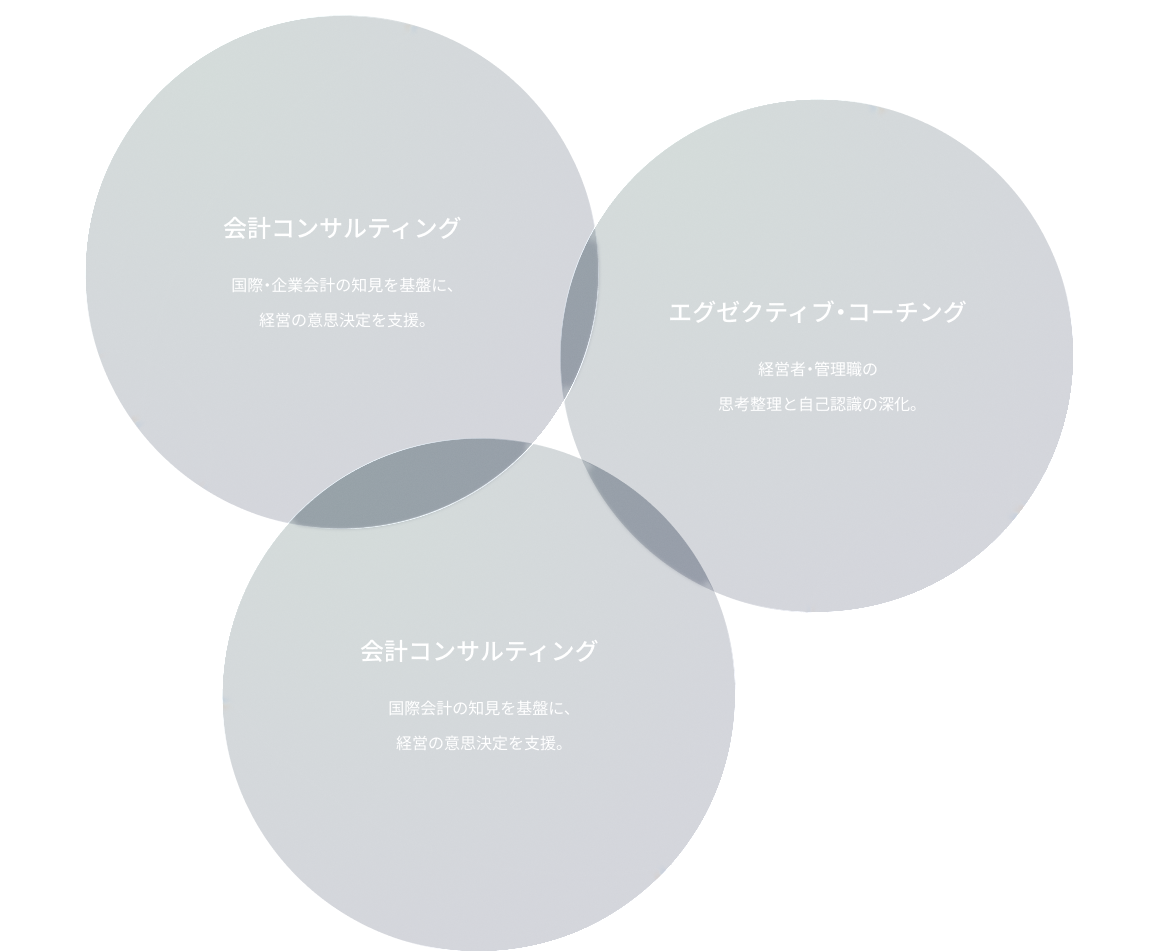
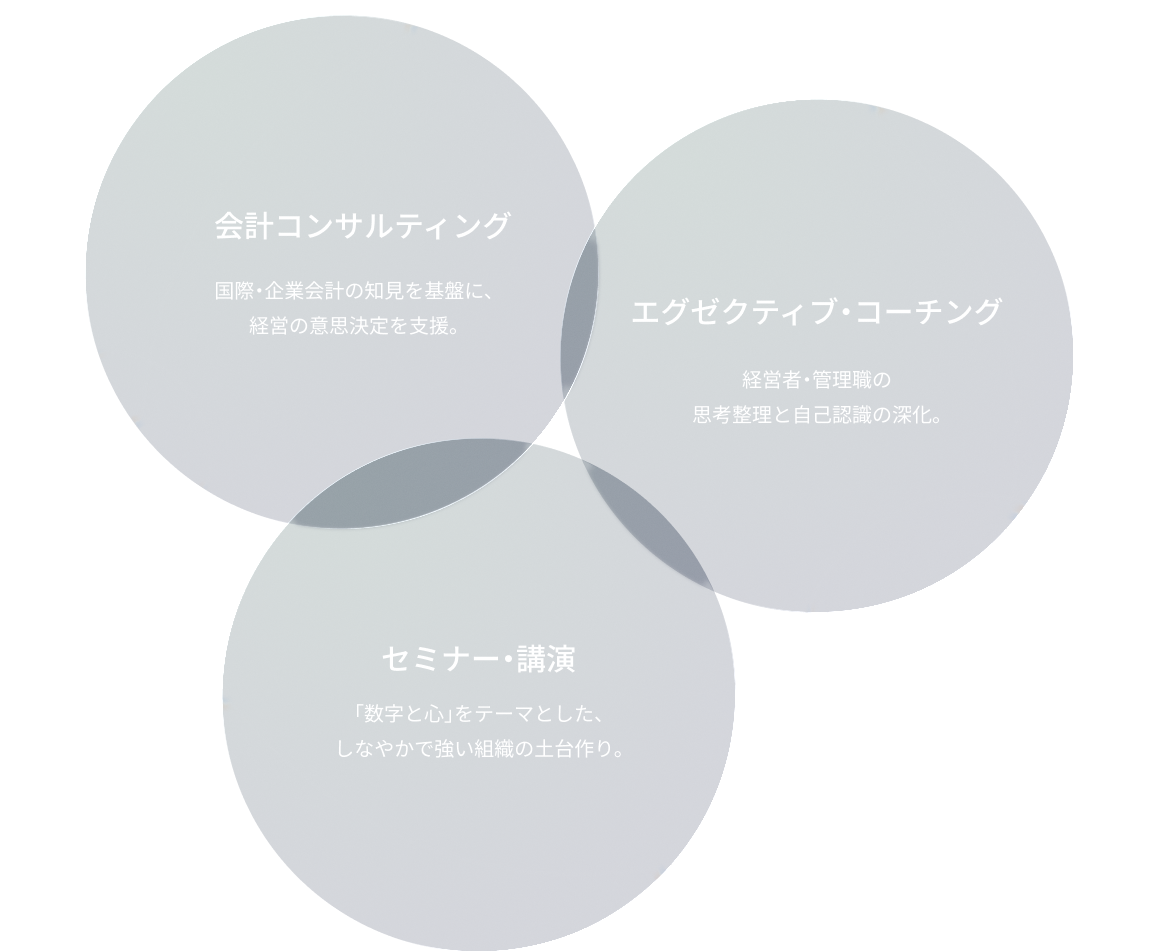
UI update

diff --git a/styles.css b/styles.css
@@ -18,6 +18,7 @@ html {
   --font-family: "Noto Serif JP", serif;
   -webkit-font-smoothing: antialiased;
   --secondary-font-family: "Philosopher", sans-serif;
+  --third-font-family: "Noto Sans JP", sans-serif;
   --hero-bg-color: linear-gradient(120.08deg, #033432 -7.87%, #172244 41.1%);
   --navy: #262f4c;
   --navy-mid: #2d3e6b;
@@ -64,7 +65,7 @@ html {
 }
 
 body {
-  font-family: var(--font-family);
+  font-family: var(--third-font-family);
   color: var(--text-color);
   background-color: #f8f8f8;
   overflow-x: hidden !important;
@@ -209,6 +210,7 @@ ul {
 }
 
 .hero-title {
+  font-family: var(--font-family);
   font-size: 50px;
   font-weight: 400;
   line-height: 80px;
@@ -533,6 +535,10 @@ ul {
   max-width: 1680px;
 }
 
+.message-title .highlight {
+  font-size: 48px;
+}
+
 .message-label {
   font-family: var(--secondary-font-family);
   font-size: 16px;
@@ -543,6 +549,7 @@ ul {
 }
 
 .message-title {
+  font-family: var(--font-family);
   font-size: 2.5rem;
   font-weight: 300;
   /* line-height: 1.4; */
@@ -552,7 +559,7 @@ ul {
 }
 
 .message-text {
-  font-family: var(--font-family);
+  font-family: var(--third-font-family);
   font-size: 1rem;
   color: var(--primary-color);
   margin-bottom: 25px;
@@ -799,6 +806,7 @@ ul {
 }
 
 .services-section .service-title {
+  font-family: var(--font-family);
   text-align: center;
 }
 
@@ -903,6 +911,7 @@ ul {
 }
 
 .organization-content-wrapper .organization-paragraph {
+  font-family: var(--font-family);
   font-weight: 400;
   font-size: 36px;
   line-height: 70px;
@@ -1606,7 +1615,6 @@ ul {
   font-size: 36px;
 }
 .services-info-description {
-  font-family: var(--font-family);
   font-weight: 400;
   font-size: 16px;
   line-height: 35px;
@@ -1652,13 +1660,12 @@ ul {
   font-size: 36px;
 }
 .services-description-section .s1-sec p {
-  font-family: var(--font-family);
   font-weight: 400;
   font-size: 16px;
   line-height: 35px;
 }
 .services-description-section .s2-sec img {
-  width: 100%;
+  width: 80%;
 }
 .horizontal-line-with-circle {
   width: 100%;
@@ -1721,9 +1728,10 @@ ul {
 
 /* Body */
 .custom-table tbody td {
-  padding: 16px;
+  font-family: var(--third-font-family);
+  padding: 30px 16px;
   vertical-align: top;
-  line-height: 1.6;
+  line-height: 2.0;
   border-right: 1px solid #fff;
 }
 
@@ -1785,7 +1793,6 @@ ul {
   width: 100%;
 }
 .seminar-container p {
-  font-family: var(--font-family);
   font-weight: 400;
   font-size: 16px;
   line-height: 35px;
@@ -1804,7 +1811,6 @@ ul {
   text-align: center;
 }
 .subject-description {
-  font-family: var(--font-family);
   font-weight: 400;
   font-size: 16px;
   line-height: 35px;
@@ -1822,7 +1828,6 @@ ul {
   padding-inline: 20px;
 }
 .participating-section {
-  font-family: var(--font-family);
   font-weight: 400;
   font-size: 16px;
   line-height: 35px;
@@ -1918,6 +1923,7 @@ ul {
 
 /* Table */
 .subject-table-services__table {
+  font-family: var(--third-font-family);
   border-top: 1px solid var(--primary-color);
 }
 
@@ -2458,6 +2464,10 @@ ul {
     margin-bottom: 30px;
   }
 
+  .message-title .highlight {
+    font-size: 36px;
+  }
+
   .message-text {
     font-size: 0.95rem;
     margin-bottom: 18px;
@@ -2662,6 +2672,10 @@ ul {
     font-size: 22px;
   }
 
+  .message-title .highlight {
+    font-size: 26px;
+  }
+
   .message-text {
     font-size: 14px;
     line-height: 1.6;
@@ -2777,6 +2791,10 @@ ul {
   .subject-table-services__content {
     padding: 16px;
     font-size: 13px;
+  }
+
+  .services-description-section .s2-sec img {
+    width: 100%;
   }
 }
 

diff --git a/header.php b/header.php
@@ -4,6 +4,12 @@
     <meta charset="UTF-8" />
     <meta name="viewport" content="width=device-width, initial-scale=1.0" />
     <title>AMA Partners Global</title>
+    <meta name="description" content="有泉麻依子の公式サイト。サービス内容、プロフィール、実績をご紹介しています。お問い合わせはこちらから。">
+    <meta property="og:title" content="有泉 麻依子 | 公式サイト">
+    <meta property="og:description" content="有泉麻依子の公式サイト。サービス内容、プロフィール、実績をご紹介。">
+    <meta property="og:url" content="https://maikoariizumi.com/">
+    <meta property="og:type" content="website">
+    <link rel="icon" type="image/x-icon" href="<?php echo get_stylesheet_directory_uri(); ?>/assets/favicon.png">
     <link rel="stylesheet" href="<?php echo get_stylesheet_directory_uri(); ?>/styles.css" />
     <link rel="preconnect" href="https://fonts.googleapis.com" />
     <link rel="preconnect" href="https://fonts.gstatic.com" crossorigin />
@@ -11,6 +17,7 @@
       href="https://fonts.googleapis.com/css2?family=Noto+Serif+JP:wght@200..900&display=swap"
       rel="stylesheet"
     />
+    <link href="https://fonts.googleapis.com/css2?family=Noto+Sans+JP:wght@100..900&display=swap" rel="stylesheet">
     <?php wp_head(); ?> 
   </head>
 

diff --git a/front-page.php b/front-page.php
@@ -65,7 +65,7 @@
           <div style="margin: 0 auto">
             <div class="message-content">
               <h2 class="message-label">Personal Message</h2>
-              <h1 class="message-title">なぜ、数字と心の両方を見るのか</h1>
+              <h1 class="message-title">なぜ、<span class="highlight">数字</span>と<span class="highlight">心</span>の両方を見るのか</h1>
 
               <p class="message-text">
                 企業の成長は、数字に現れます。<br />
@@ -184,11 +184,11 @@
                 そんな英国でのゴルフと気づきを発信しています。
               </p>
               <div class="quiet-moments-buttons">
-                <a href="#" class="qm-btn">
+                <a href="https://note.com/maichi77" class="qm-btn">
                   <span class="qm-text">Note</span>
                   <span class="qm-arrow">→</span>
                 </a>
-                <a href="#" class="qm-btn">
+                <a href="https://www.instagram.com/maichi77.a?igsh=a3RsOXQ3bG95cWh4" class="qm-btn">
                   <span class="qm-text">Instagram</span>
                   <span class="qm-arrow">→</span>
                 </a>

diff --git a/functions.php b/functions.php
@@ -7,7 +7,7 @@ if (! defined('ABSPATH')) {
     exit;
 }
 
-define('AMA_CONTACT_RECIPIENT', 'crazydev084@gmail.com');
+define('AMA_CONTACT_RECIPIENT', 'maiko.ariizumi@live.jp');
 
 /**
  * Load theme JS site-wide; expose admin-ajax URL + nonce for the contact form.
